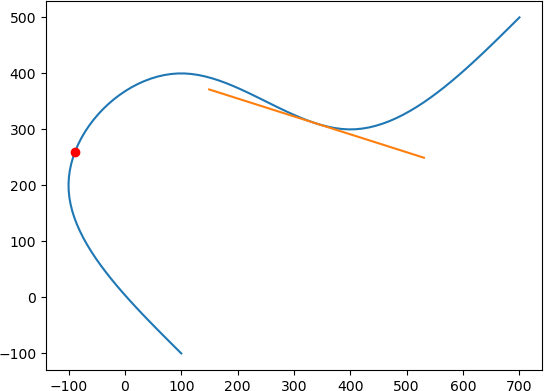
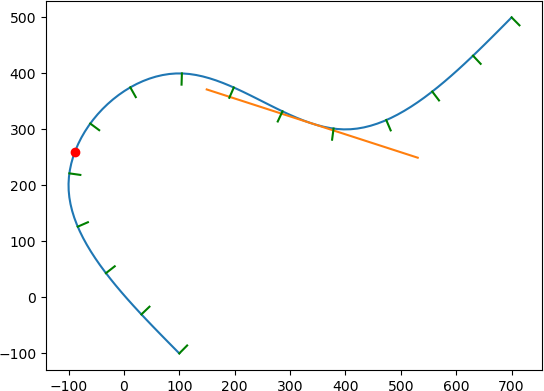
Update README.md for v0.6.0

diff --git a/README.md b/README.md
@@ -62,12 +62,12 @@ https://conan.io/center/tinyspline
 
 NuGet (C#):
 ```xml
-<PackageReference Include="tinyspline" Version="0.5.0.1" />
+<PackageReference Include="tinyspline" Version="0.6.0.1" />
 ```
 
 Go:
 ```bash
-go get github.com/tinyspline/go@v0.5.0
+go get github.com/tinyspline/go@v0.6.0
 ```
 
 Luarocks (Lua):
@@ -80,7 +80,7 @@ Maven (Java):
 <dependency>
    <groupId>org.tinyspline</groupId>
    <artifactId>tinyspline</artifactId>
-   <version>0.5.0-1</version>
+   <version>0.6.0-1</version>
 </dependency>
 ```
 
@@ -89,12 +89,9 @@ PyPI (Python):
 python -m pip install tinyspline
 ```
 
-On macOS, you probably need to change the path to Python in
-`_tinysplinepython.so` via `install_name_tool`.
-
 RubyGems (Ruby):
 ```bash
-gem install tinyspline --pre
+gem install tinyspline
 ```
 
 #### Compiling From Source
@@ -134,9 +131,20 @@ plt.plot(vec2.x, vec2.y, 'ro')
 # Draw tangent at knot 0.7.
 pos = spline(0.7).result_vec2() # operator () -> eval
 der = spline.derive()(0.7).result_vec2().normalize() * 200
-s = (pos - der)
-t = (pos + der)
+s = pos - der
+t = pos + der
 plt.plot([s.x, t.x], [s.y, t.y])
+
+# Draw normals with equidistant distribution.
+knots = spline.equidistant_knot_seq(15)
+frames = spline.compute_rmf(knots)
+for i in range(frames.size()):
+    pos = frames.at(i).position
+    nor = pos + frames.at(i).normal * 20
+    # You can also fetch the tangent and binormal:
+    #     frames.at(i).tangent
+    #     frames.at(i).binormal
+    plt.plot([pos.x, nor.x], [pos.y, nor.y], 'g')
 
 plt.show()
 ```
